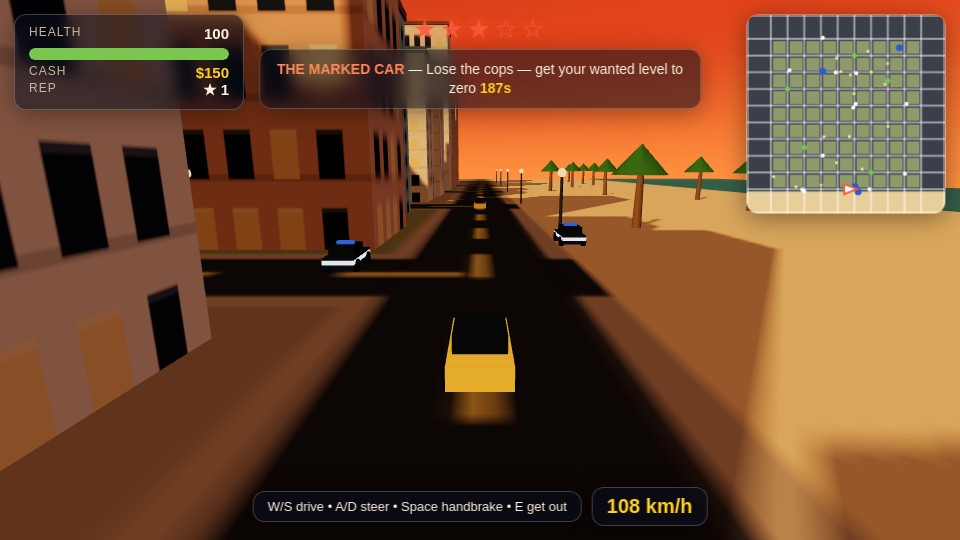
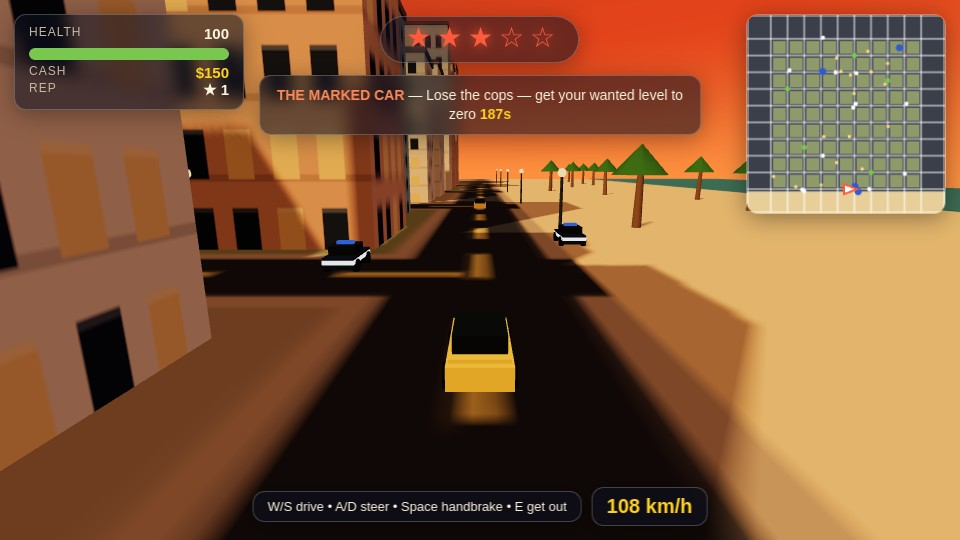
SOLMARINA: fix wanted-stars overlap + street shot

Changed region(s): [[0.0312, 0.0, 1.0, 1.0], [0.0625, 0.5037, 0.2188, 0.7704]]

diff --git a/game/src/shots.js b/game/src/shots.js
@@ -68,6 +68,16 @@ function placeTraffic(G, x, z, heading) {
   return car;
 }
 
+// A pedestrian repositioned into the frame: a real game unit, just placed
+// where the camera can see it (like placePolice / placeTraffic below).
+function placePed(G, i, x, z, heading) {
+  const ped = G.peds[i % G.peds.length];
+  ped.x = x; ped.z = z; ped.heading = heading;
+  ped.target = null; ped.state = 'walk'; ped.stateT = 8;
+  ped.mesh.position.set(x, 0, z);
+  ped.mesh.rotation.y = heading;
+}
+
 export function stageShot(name, G) {
   const S = G.stage;
   // The frame must show the game, not a menu: hide every screen first.
@@ -101,15 +111,36 @@ export function stageShot(name, G) {
     G.hud.update(G);
     S.renderer.render(S.scene, S.camera);
   } else if (name === 'street') {
-    // On foot in the city: plaza, fountain, pedestrians, traffic, hotels.
-    G.player.x = -8; G.player.z = 30; G.player.heading = Math.PI;
-    G.player.mesh.position.set(-8, 0, 30);
-    G.player.mesh.rotation.y = Math.PI;
+    // On foot in the city: Marco by the plaza fountain, pedestrians
+    // around him, traffic on the avenue — a living city, not an empty lot.
+    // The camera sits close (6 units) so the player reads large, and the
+    // frame faces the fountain from the plaza's sunny south-east corner,
+    // clear of the long building shadows that darkened the old shot.
+    const heading = Math.atan2(0 - 10, 0 - 12); // toward the fountain
+    G.player.x = 10; G.player.z = 12; G.player.heading = heading;
+    G.player.mesh.position.set(10, 0, 12);
+    G.player.mesh.rotation.y = heading;
     G.player.cameraYaw = 0;
     G.player.cash = 150; G.player.rep = 1;
     G.missions.index = -1; G.missions.state = 'idle'; // free roam, no mission banner
     simSeconds(G, 4, null);
-    placeCamera(G, -8 + Math.sin(0) * 9, 4.2, 30 + Math.cos(0) * 9, -8, 1.5, 30 - 12);
+    // Life in the frame: five pedestrians strolling around the fountain
+    // (all outside its 10-unit wall, on the near and side rims where the
+    // low camera can actually see them), and two traffic cars on the
+    // avenues, placed wide of the fountain's occlusion cone (it hides
+    // anything near the view axis behind it): one up the north avenue
+    // on the right, one up the west avenue left.
+    placePed(G, 0, 11, 0, 0.5);
+    placePed(G, 1, -11, 0, -1.2);
+    placePed(G, 2, 0, 12, 2.2);
+    placePed(G, 3, 13, 3, -2.0);
+    placePed(G, 4, -13, 8, 1.0);
+    placeTraffic(G, 14, -27, Math.PI / 2);
+    placeTraffic(G, -27, 6, Math.PI);
+    const yaw = heading + Math.PI;
+    placeCamera(G,
+      10 + Math.sin(yaw) * 6, 3.0, 12 + Math.cos(yaw) * 6,
+      10 + Math.sin(heading) * 8, 1.6, 12 + Math.cos(heading) * 8);
     G.hud.update(G);
     S.renderer.render(S.scene, S.camera);
   } else if (name === 'heat') {

diff --git a/game/index.html b/game/index.html
@@ -25,11 +25,11 @@
   .stat-row { display: flex; justify-content: space-between; font-size: 15px; font-weight: 700; }
   .stat-row .label { color: var(--dim); font-weight: 400; font-size: 12px; letter-spacing: 1px; }
   #cash-text { color: var(--cash); }
-  #hud-top-center { position: absolute; top: 14px; left: 50%; transform: translateX(-50%); text-align: center; max-width: 46%; }
-  #wanted-stars { font-size: 26px; letter-spacing: 4px; color: #ffd21f; text-shadow: 0 0 12px rgba(255,210,31,0.7); }
+  #hud-top-center { position: absolute; top: 16px; left: 50%; transform: translateX(-50%); text-align: center; max-width: 46%; }
+  #wanted-stars { display: inline-block; font-size: 28px; letter-spacing: 6px; line-height: 1.1; color: #ffd21f; text-shadow: 0 0 12px rgba(255,210,31,0.7); background: var(--glass); border: 1px solid var(--border); border-radius: 999px; padding: 6px 18px 8px 24px; box-shadow: 0 4px 24px rgba(0,0,0,0.35); }
   #wanted-stars.hot { color: #ff5a3c; text-shadow: 0 0 14px rgba(255,90,60,0.9); animation: pulse 0.8s infinite; }
   @keyframes pulse { 50% { opacity: 0.55; } }
-  #objective { margin-top: 4px; font-size: 14px; line-height: 1.35; }
+  #objective { margin-top: 12px; font-size: 14px; line-height: 1.35; }
   #objective b { color: var(--accent-soft); }
   #objective .timer { color: var(--cash); font-weight: 700; }
   #objective .dist { color: #7ac74f; font-weight: 700; }

diff --git a/game/src/render.js b/game/src/render.js
@@ -55,9 +55,12 @@ export function createStage(canvas) {
   sunHalo.lookAt(0, 60, 0);
   scene.add(sunHalo);
 
-  // Lights: warm low sun with shadows + pink sky bounce.
+  // Lights: warm low sun with shadows + pink sky bounce. The sun sits
+  // high enough (~45 deg) that building shadows stay short and never
+  // blanket the plaza foreground; the hemisphere lift keeps shadowed
+  // ground readable instead of a black band.
   const sunLight = new THREE.DirectionalLight(0xffc98a, 2.6);
-  sunLight.position.set(-180, 140, -120);
+  sunLight.position.set(-170, 205, -110);
   sunLight.castShadow = true;
   sunLight.shadow.mapSize.set(2048, 2048);
   sunLight.shadow.camera.left = -280; sunLight.shadow.camera.right = 280;
@@ -65,7 +68,7 @@ export function createStage(canvas) {
   sunLight.shadow.camera.far = 700;
   sunLight.shadow.bias = -0.0004;
   scene.add(sunLight);
-  scene.add(new THREE.HemisphereLight(0xffb88a, 0x8a6a5a, 0.85));
+  scene.add(new THREE.HemisphereLight(0xffb88a, 0x8a6a5a, 1.05));
   const fill = new THREE.DirectionalLight(0x7a8ac8, 0.35);
   fill.position.set(150, 80, 200);
   scene.add(fill);
